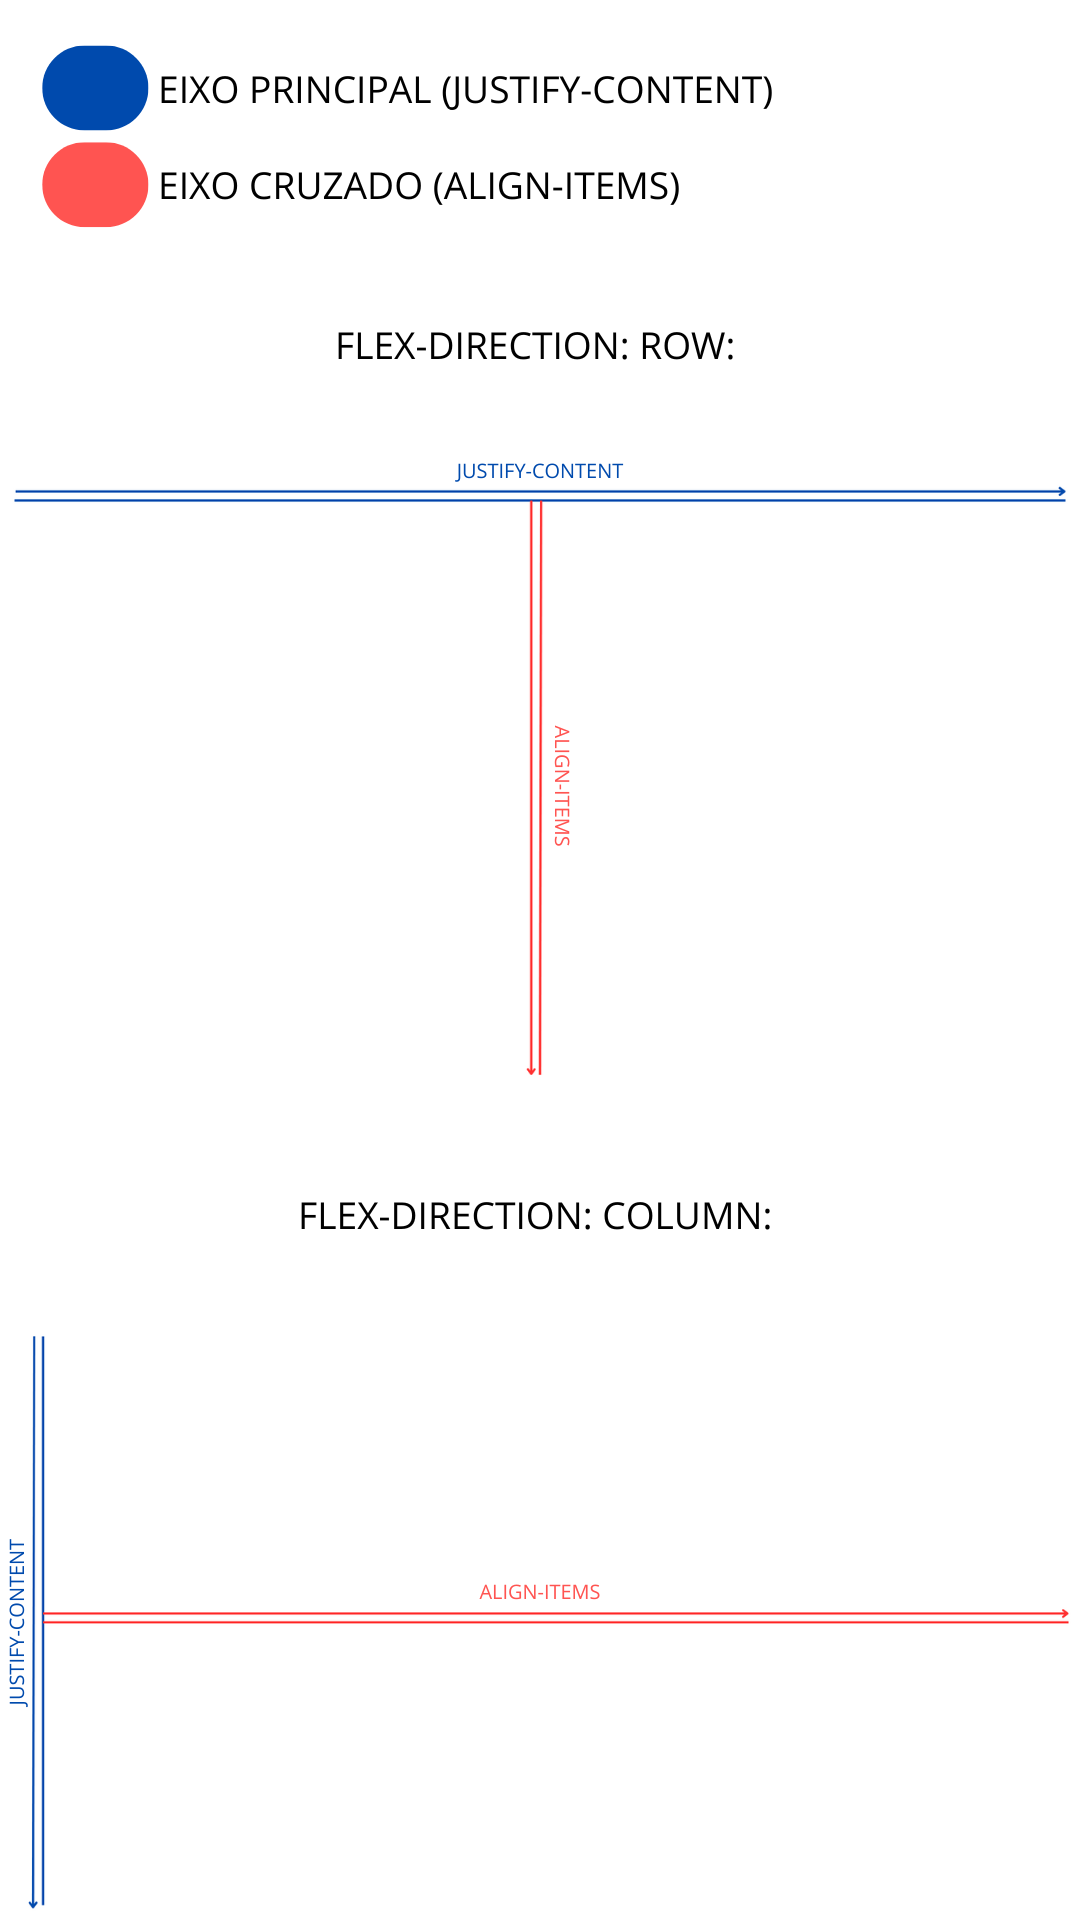
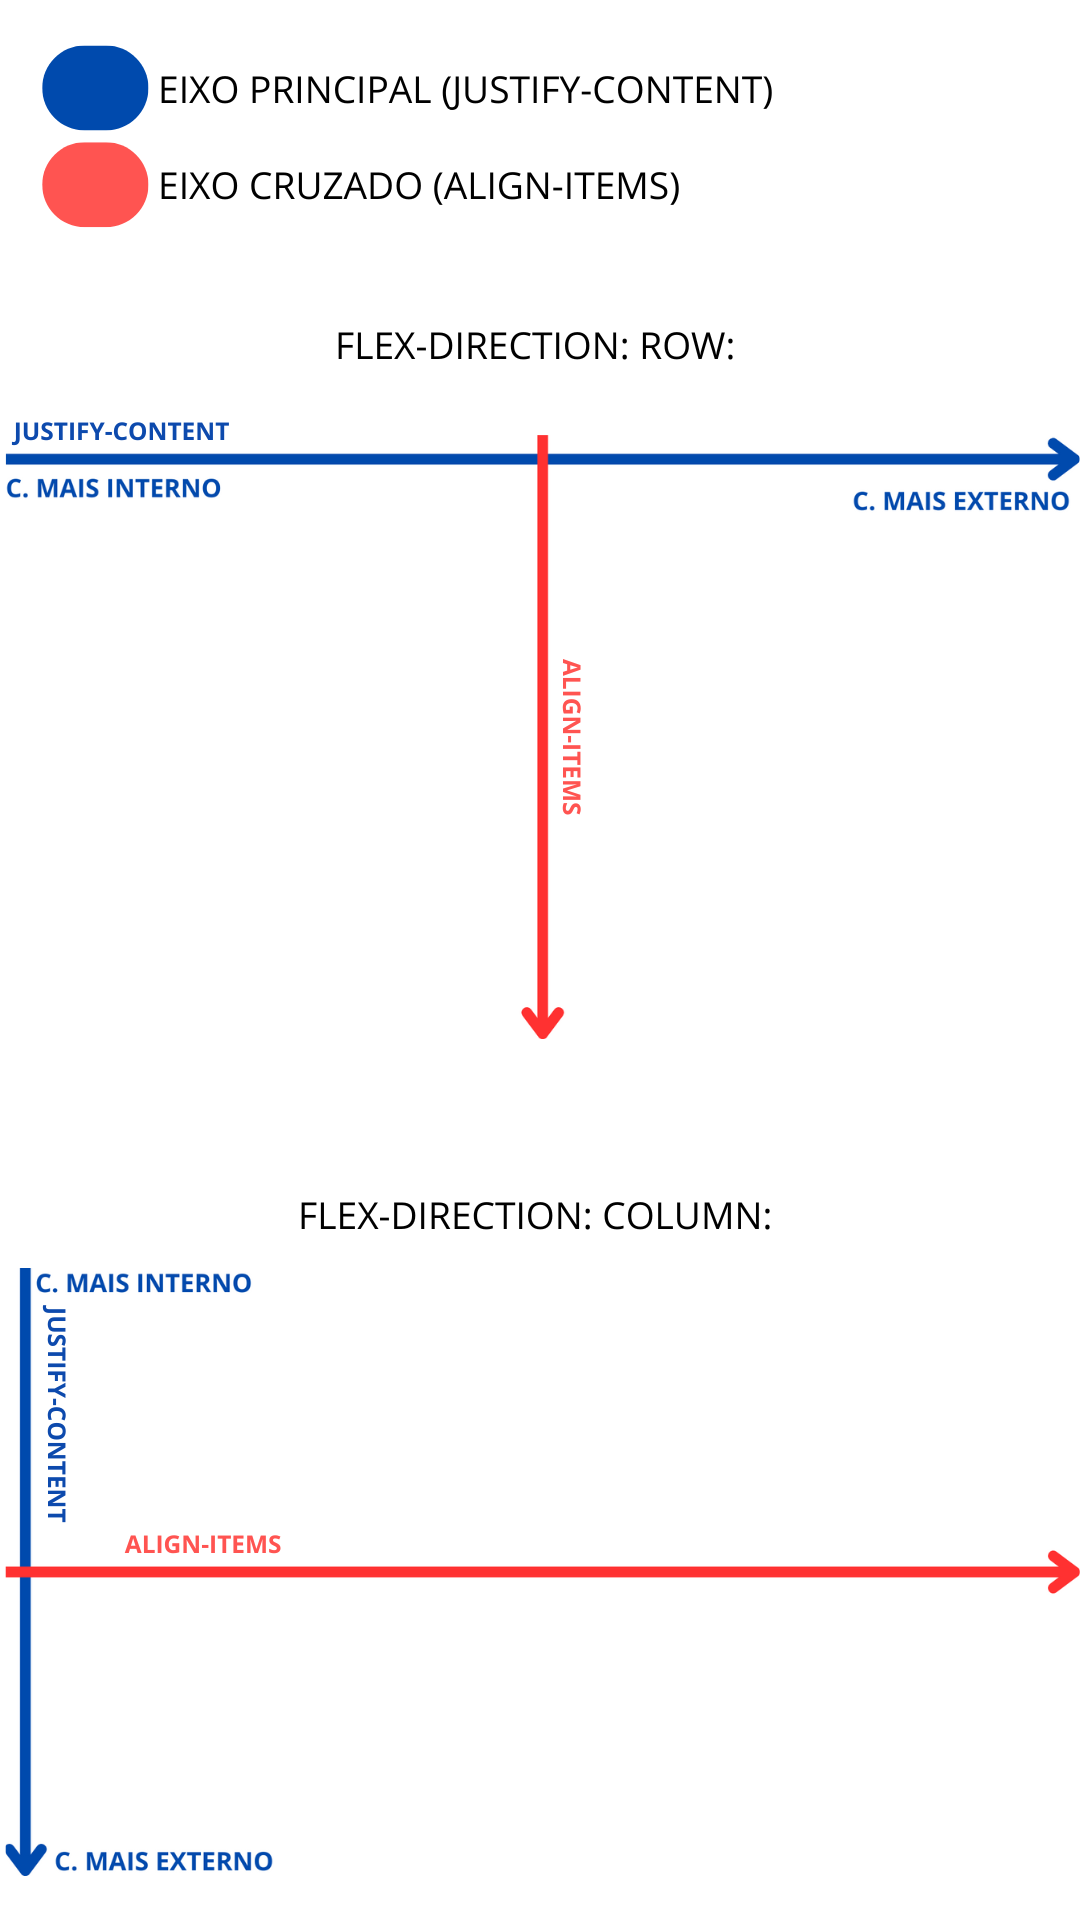
update

diff --git a/displayflex.md b/displayflex.md
@@ -138,7 +138,7 @@ Essas linhas e colunas têm dois comandos principais que, como já disse o profe
     >     - **Eixo Principal**: A direção dos itens (horizontal ou vertical) definida pela `flex-direction`.
     >     - **Eixo Cruzado**: Perpendicular ao eixo principal (se o eixo principal for horizontal, o eixo cruzado será vertical, e vice-versa).
 
-  Abrir `img`/`imagem3`.
+  Abrir `img`/`imagem3 e 4`.
 
 - **`align-itans:`** A propriedade **`align-items:`** é usada no Flexbox para alinhar itens ao longo do **eixo cruzado**, que pode ser vertical ou horizontal, dependendo da direção do eixo principal. Quando o contêiner flexível usa a direção padrão (`flex-direction: row`), o eixo cruzado é vertical. Se a direção for alterada para `flex-direction: column`, o eixo cruzado se torna horizontal. Essa propriedade decide como os itens são distribuídos no eixo cruzado, seja no topo, centro ou parte inferior.
 
